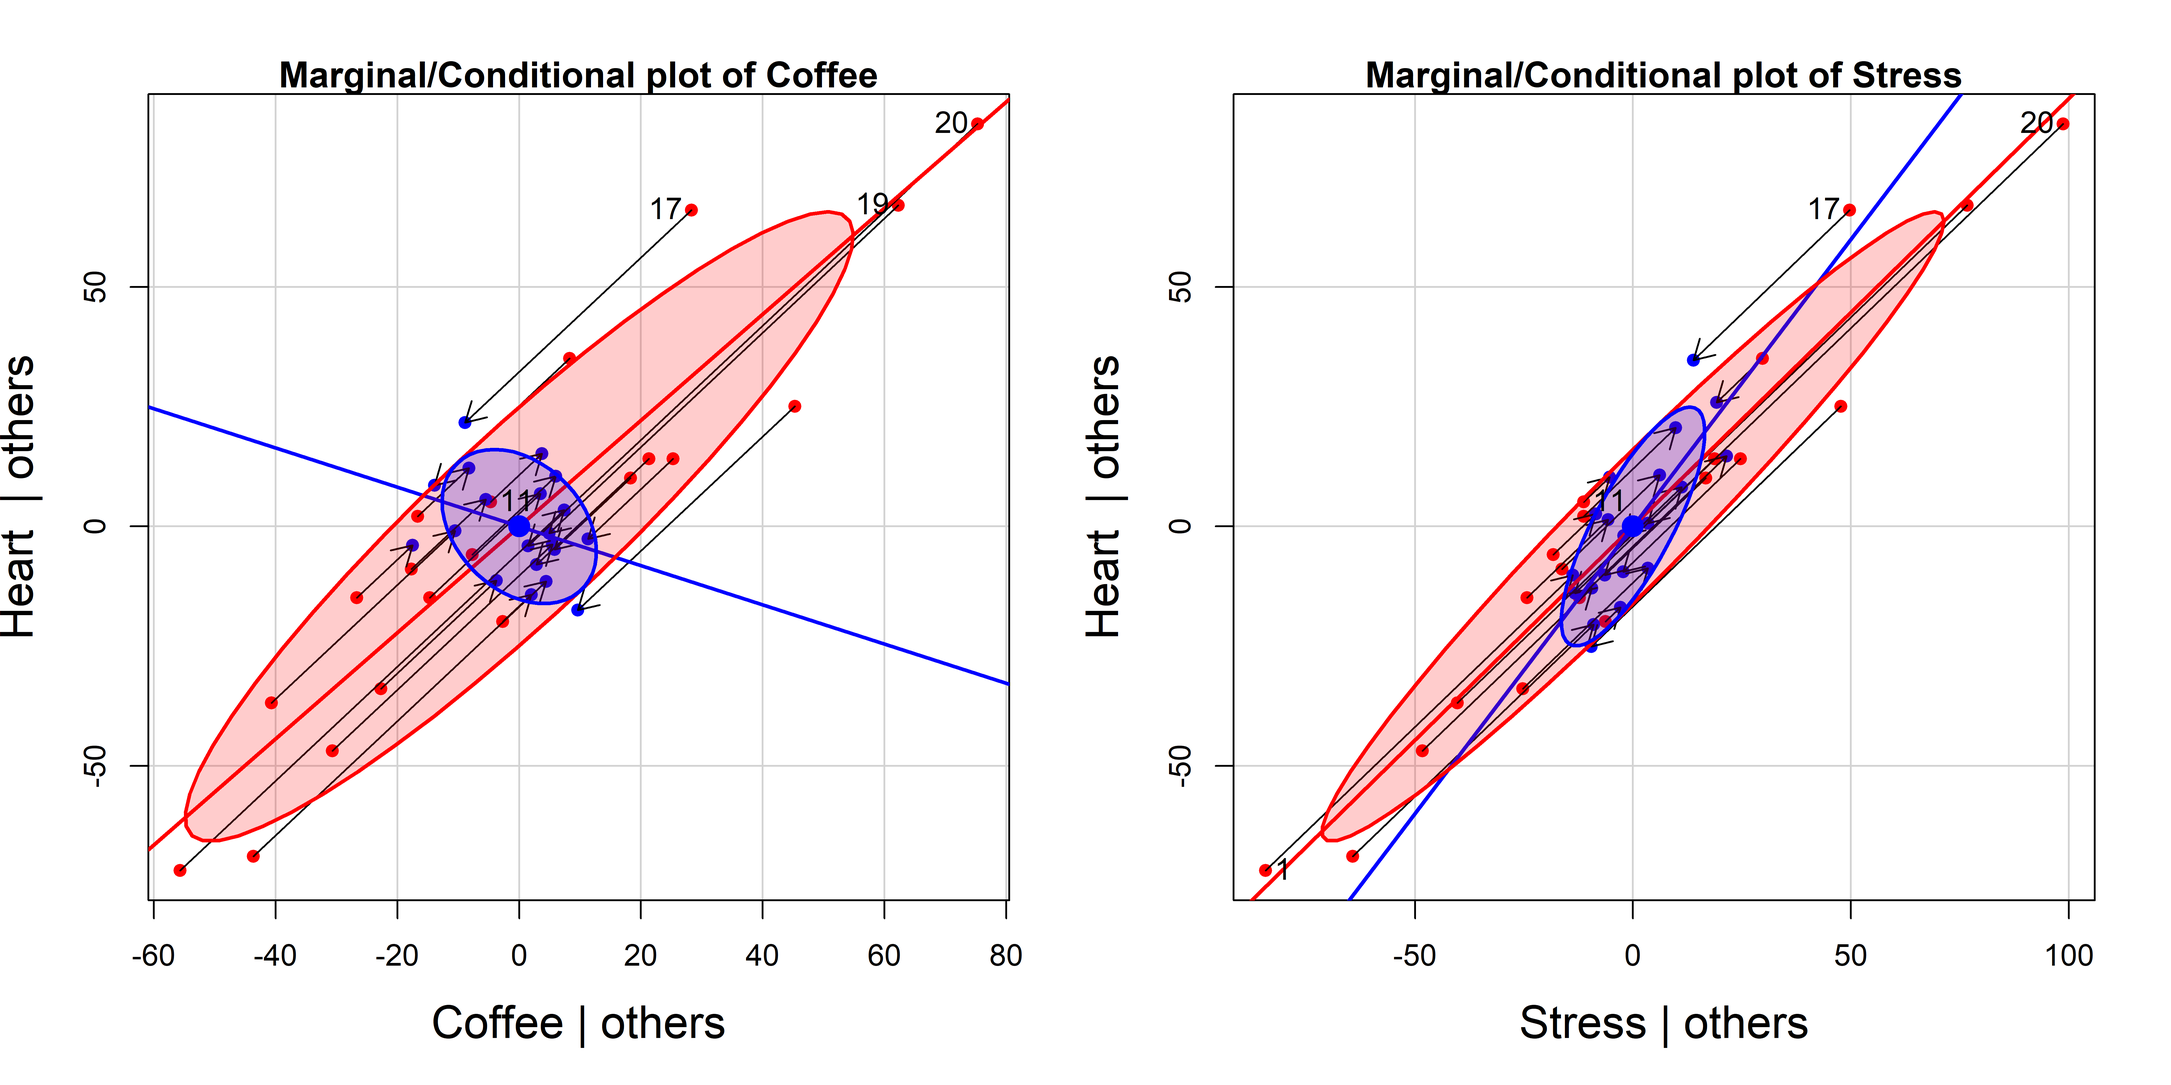
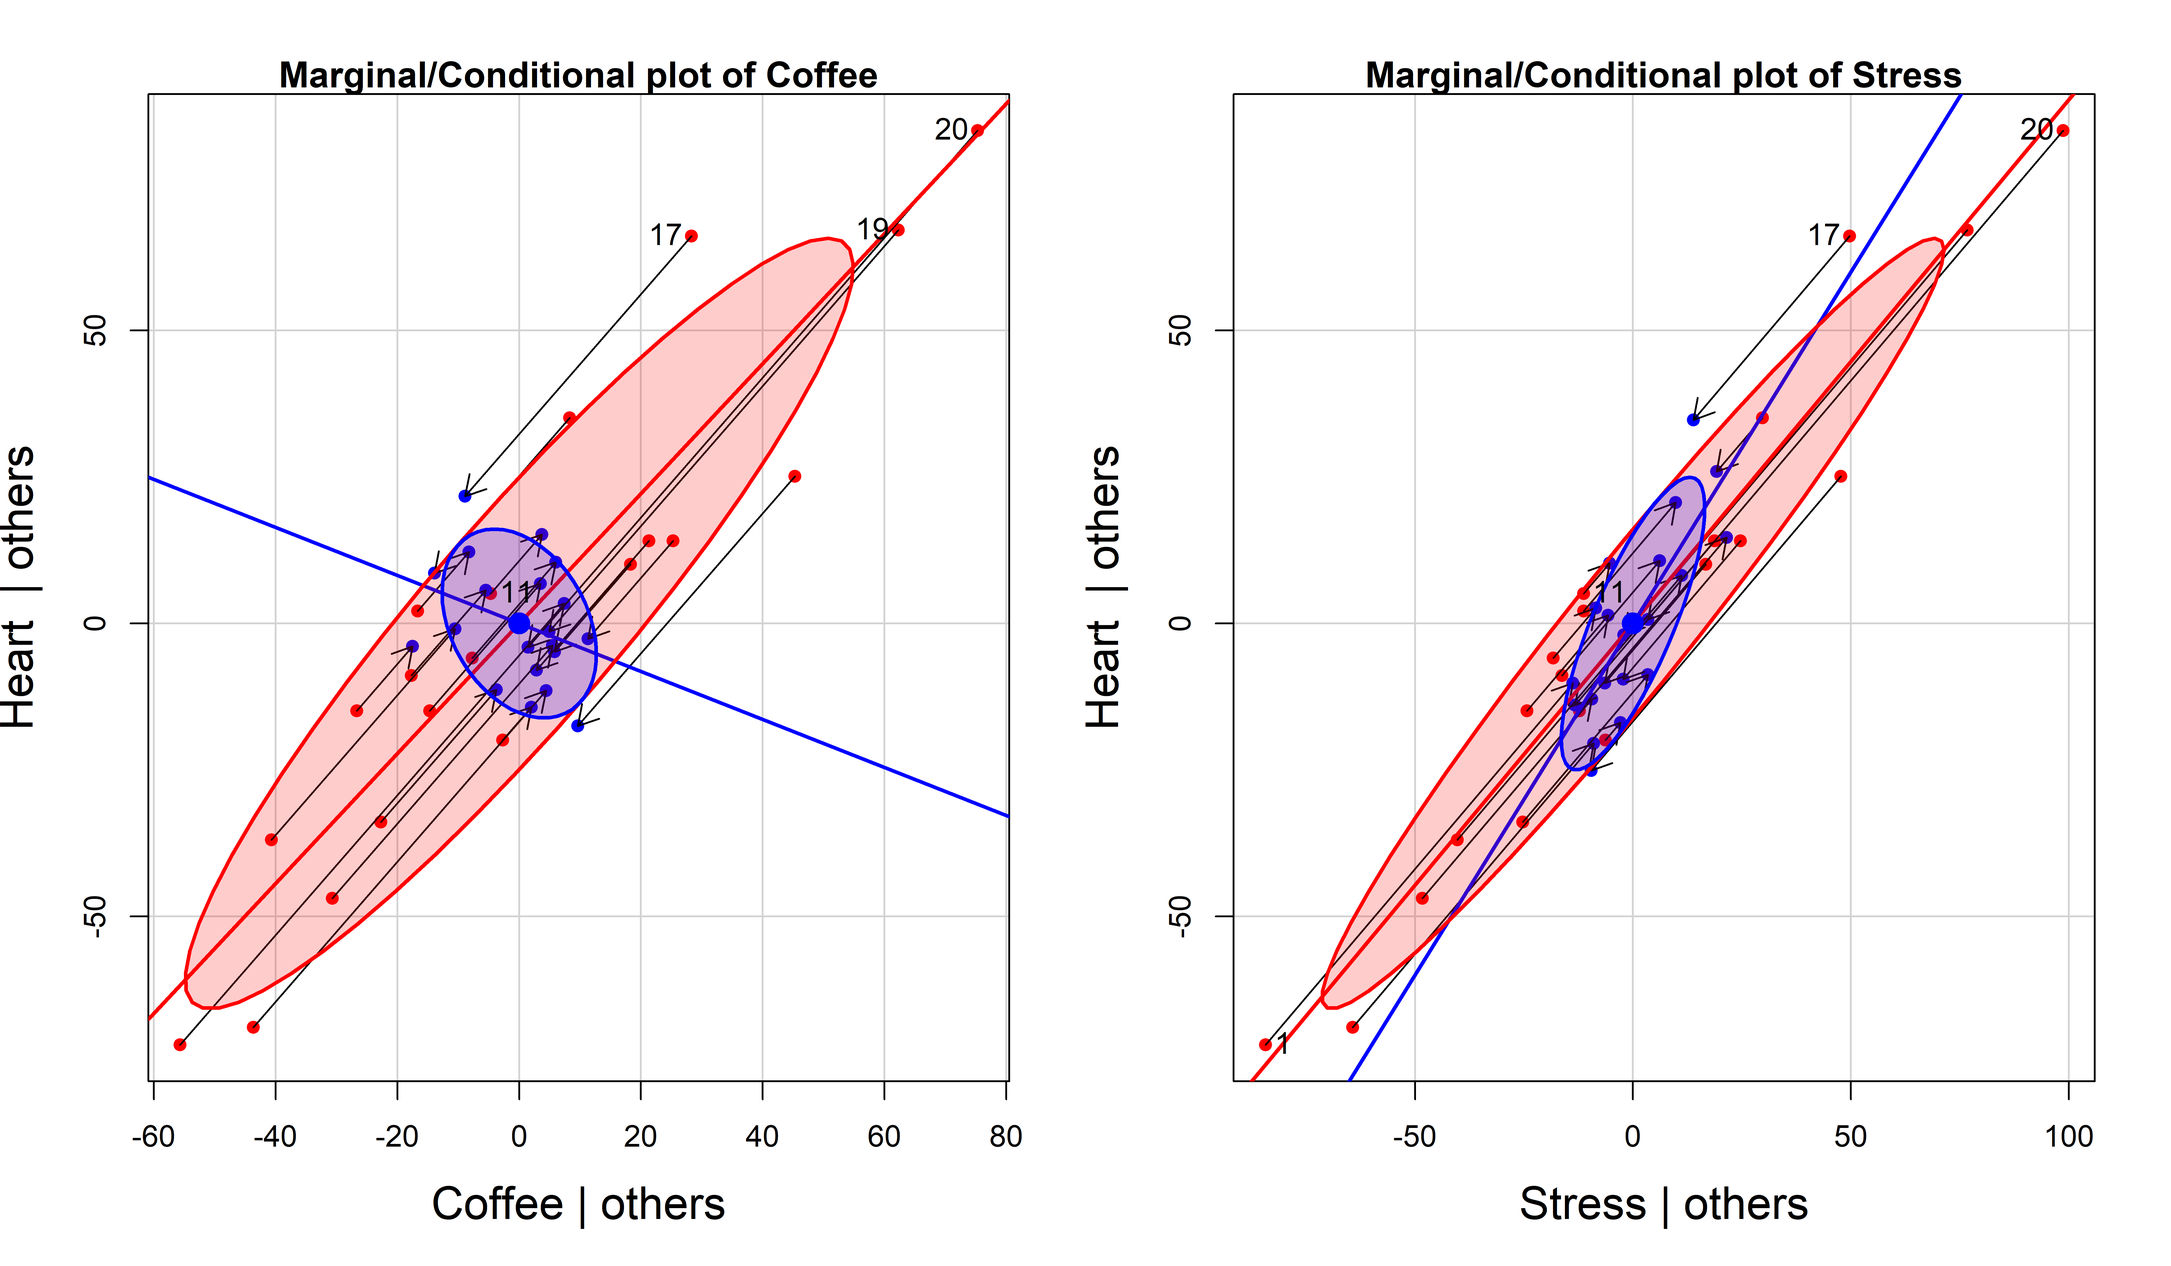
tweak ch06

diff --git a/docs/06-linear_models-plots.html b/docs/06-linear_models-plots.html
@@ -119,7 +119,7 @@ div.csl-indent {
       <button type="button" class="quarto-btn-toggle btn" data-bs-toggle="collapse" data-bs-target="#quarto-sidebar,#quarto-sidebar-glass" aria-controls="quarto-sidebar" aria-expanded="false" aria-label="Toggle sidebar navigation" onclick="if (window.quartoToggleHeadroom) { window.quartoToggleHeadroom(); }">
         <i class="bi bi-layout-text-sidebar-reverse"></i>
       </button>
-      <nav class="quarto-page-breadcrumbs" aria-label="breadcrumb"><ol class="breadcrumb"><li class="breadcrumb-item"><a href="./06-linear_models-plots.html"><span class="chapter-number">6</span>&nbsp; <span class="chapter-title">what are figure defaults?</span></a></li></ol></nav>
+      <nav class="quarto-page-breadcrumbs" aria-label="breadcrumb"><ol class="breadcrumb"><li class="breadcrumb-item"><a href="./06-linear_models-plots.html"><span class="chapter-number">6</span>&nbsp; <span class="chapter-title">Plots for univariate response models</span></a></li></ol></nav>
       <a class="flex-grow-1" role="button" data-bs-toggle="collapse" data-bs-target="#quarto-sidebar,#quarto-sidebar-glass" aria-controls="quarto-sidebar" aria-expanded="false" aria-label="Toggle sidebar navigation" onclick="if (window.quartoToggleHeadroom) { window.quartoToggleHeadroom(); }">      
       </a>
       <button type="button" class="btn quarto-search-button" aria-label="" onclick="window.quartoOpenSearch();">
@@ -197,7 +197,7 @@ div.csl-indent {
         <li class="sidebar-item">
   <div class="sidebar-item-container"> 
   <a href="./06-linear_models-plots.html" class="sidebar-item-text sidebar-link active">
- <span class="menu-text"><span class="chapter-number">6</span>&nbsp; <span class="chapter-title">what are figure defaults?</span></span></a>
+ <span class="menu-text"><span class="chapter-number">6</span>&nbsp; <span class="chapter-title">Plots for univariate response models</span></span></a>
   </div>
 </li>
         <li class="sidebar-item">
@@ -1281,7 +1281,7 @@ window.addEventListener('load', function () { styleCell_tinytable_99icm0xmzb5g0j
 <p>The most obvious feature of <a href="#fig-coffee-mcplot">Figure&nbsp;<span>6.10</span></a> is that Coffee has a negative slope in the conditional AV plot but a positive slope in the marginal plot. This is an example of Simpson’s paradox in a regression context: marginal and conditional relations can have opposite signs. </p>
 <p>Less obvious is the relation between the marginal and AVP ellipses. In 3D, the marginal data ellipse is the shadow of the ellipsoid for <span class="math inline">\((\mathbf{y}, \mathbf{x}_1, \mathbf{x}_2)\)</span> on one of the coordinate planes, while the AV plot is a slice through the ellipsoid where either <span class="math inline">\(\mathbf{x}_1\)</span> or <span class="math inline">\(\mathbf{x}_2\)</span> is held constant. Thus, the AVP ellipse must be contained in the marginal ellipse, as we can see in <a href="#fig-coffee-mcplot">Figure&nbsp;<span>6.10</span></a>. If there are only two <span class="math inline">\(x\)</span>s, then the AVP ellipse must touch the marginal ellipse at two points.</p>
 <p>Finally, <a href="#fig-coffee-mcplot">Figure&nbsp;<span>6.10</span></a> also shows how conditioning on other predictors works for individual observations, where each point of <span class="math inline">\((\mathbf{x}_i^\star, \mathbf{y}^\star)\)</span> is the image of <span class="math inline">\((\mathbf{x}_i, \mathbf{y})\)</span> along the path of the marginal regression. The variability in the response and in the focal predictor are both reduced, leaving only the uncontaminated relation of <span class="math inline">\(\mathbf{y}\)</span> with <span class="math inline">\(\mathbf{x}_i\)</span>.</p>
-<p>These plots are similar in spirit to the ARES plot (“Adding REgressors Smoothly”) proposed by <span class="citation" data-cites="CookWeisberg-1994">Cook &amp; Weisberg (<a href="90-references.html#ref-CookWeisberg-1994" role="doc-biblioref">1994</a>)</span>, but their idea was an interactive animation, displaying a smooth transition between the fit of a marginal model and the fit of a larger model. They used linear interpolation controlled by a slider, whose value, <span class="math inline">\(\lambda \in [0, 1]\)</span>, was the weight given to the smaller marginal model.</p>
+<p>These plots are similar in spirit to the ARES plot (“Adding REgressors Smoothly”) proposed by <span class="citation" data-cites="CookWeisberg-1994">Cook &amp; Weisberg (<a href="90-references.html#ref-CookWeisberg-1994" role="doc-biblioref">1994</a>)</span>, but their idea was an interactive animation, displaying a smooth transition between the fit of a marginal model and the fit of a larger model. They used linear interpolation, <span class="math inline">\((\mathbf{x}_i, \mathbf{y})_{\text{interp}} = (\mathbf{x}_i, \mathbf{y}) + \lambda [(\mathbf{x}_i^\star, \mathbf{y}^\star) - (\mathbf{x}_i, \mathbf{y})]\)</span>, controlled by a slider, whose value, <span class="math inline">\(\lambda \in [0, 1]\)</span>, was the weight given to the smaller marginal model. See <a href="https://www.datavis.ca/gallery/animation/duncanAV/">Animated interpolation between a marginal scatterplot and an added-variable plot</a> for an example using the Duncan data.</p>
 </section><section id="prestige-data" class="level3" data-number="6.5.3"><h3 data-number="6.5.3" class="anchored" data-anchor-id="prestige-data">
 <span class="header-section-number">6.5.3</span> Prestige data</h3>
 <p>For a substantive example, let’s return to the model for income, education and women in the <code>Prestige</code> data. The plot in <a href="#fig-prestige-avplot">Figure&nbsp;<span>6.11</span></a> shows the strong positive relations of income and education to prestige in the full model, and the negligible relation of percent women. But, in the plot for income, two occupations (physicians and general managers) with high income strongly pull the regression line down from what can be seen in the orientation of the conditional data ellipse.</p>
@@ -1323,7 +1323,7 @@ window.addEventListener('load', function () { styleCell_tinytable_99icm0xmzb5g0j
 <span class="header-section-number">6.5.4</span> Component + Residual plots</h3>
 <p>A plot more suited to detecting the need to transform a predictor <span class="math inline">\(\mathbf{x}_i\)</span> to a form <span class="math inline">\(f(\mathbf{x}_i)\)</span> to make it’s relationship with the response <span class="math inline">\(\mathbf{y}\)</span> more nearly linear is the <em>component + residual plot</em> (“C+R plot”, also called <em>partial residual plot</em>, <span class="citation" data-cites="LarsenMcCleary:72">Larsen &amp; McCleary (<a href="90-references.html#ref-LarsenMcCleary:72" role="doc-biblioref">1972</a>)</span>; <span class="citation" data-cites="Cook:93">Cook (<a href="90-references.html#ref-Cook:93" role="doc-biblioref">1993</a>)</span>). This plot displays the partial residual <span class="math inline">\(\mathbf{e} + \hat{b}_i \mathbf{x}_i\)</span> on the vertical axis against <span class="math inline">\(\mathbf{x}_i\)</span> on the horizontal, where <span class="math inline">\(\mathbf{e}\)</span> are the residuals from the full model. A smoothed curve through the points will often suggest the form of the transformation <span class="math inline">\(f()\)</span>. The fact that the horizontal axis is <span class="math inline">\(\mathbf{x}_i\)</span> itself rather than <span class="math inline">\(\mathbf{x}^\star_i\)</span> makes it easier to see the functional form.</p>
 <p>The C+R plot has the same desirable properties as the AV plot: The slope <span class="math inline">\(\hat{b}_i\)</span> and residuals <span class="math inline">\(\mathbf{e}\)</span> in this plot are the same as those in the full model.</p>
-<p>C+R plots are produced by <code><a href="https://rdrr.io/pkg/car/man/crPlots.html">car::crPlots()</a></code> and <code><a href="https://rdrr.io/pkg/car/man/crPlots.html">car::crPlot()</a></code>. <a href="#fig-prestige-crplot">Figure&nbsp;<span>6.13</span></a> shows this just for income in the model <code>mod1</code>. (These plots for education and women show no strong evidence of curvilinearity.) The dashed blue line is the linear <em>partial fit</em>, <span class="math inline">\(\hat{b}_i \mathbf{x}_i\)</span>, whose slope <span class="math inline">\(\hat{b}_2 = 0.0013\)</span> is the same as that for income in <code>mod1</code>. The solid <span style="color: red;">red</span> curve is the loess smooth through the points. The same points are identified as noteworthy as in AV plot in <a href="#fig-prestige-av-income">Figure&nbsp;<span>6.12</span></a>.</p>
+<p>C+R plots are produced by <code><a href="https://rdrr.io/pkg/car/man/crPlots.html">car::crPlots()</a></code> and <code><a href="https://rdrr.io/pkg/car/man/crPlots.html">car::crPlot()</a></code>. <a href="#fig-prestige-crplot">Figure&nbsp;<span>6.13</span></a> shows this just for income in the model <code>mod1</code>. (These plots for education and women show no strong evidence of curvilinearity.) The dashed <span style="color: blue;">blue</span> line is the linear <em>partial fit</em>, <span class="math inline">\(\hat{b}_i \mathbf{x}_i\)</span>, whose slope <span class="math inline">\(\hat{b}_2 = 0.0013\)</span> is the same as that for income in <code>mod1</code>. The solid <span style="color: red;">red</span> curve is the loess smooth through the points. The same points are identified as noteworthy as in AV plot in <a href="#fig-prestige-av-income">Figure&nbsp;<span>6.12</span></a>.</p>
 <div class="cell" data-layout-align="center">
 <div class="sourceCode" id="cb30" data-source-line-numbers="nil" data-code-line-numbers="nil"><pre class="downlit sourceCode r code-with-copy"><code class="sourceCode R"><span><span class="fu"><a href="https://rdrr.io/pkg/car/man/crPlots.html">crPlot</a></span><span class="op">(</span><span class="va">mod1</span>, <span class="st">"income"</span>,</span>
 <span>       smooth <span class="op">=</span> <span class="cn">TRUE</span>,</span>

diff --git a/docs/07-lin-mod-topics.html b/docs/07-lin-mod-topics.html
@@ -199,7 +199,7 @@ div.csl-indent {
         <li class="sidebar-item">
   <div class="sidebar-item-container"> 
   <a href="./06-linear_models-plots.html" class="sidebar-item-text sidebar-link">
- <span class="menu-text"><span class="chapter-number">6</span>&nbsp; <span class="chapter-title">what are figure defaults?</span></span></a>
+ <span class="menu-text"><span class="chapter-number">6</span>&nbsp; <span class="chapter-title">Plots for univariate response models</span></span></a>
   </div>
 </li>
         <li class="sidebar-item">
@@ -827,7 +827,7 @@ window.document.addEventListener("DOMContentLoaded", function (event) {
 });
 </script><nav class="page-navigation"><div class="nav-page nav-page-previous">
       <a href="./06-linear_models-plots.html" class="pagination-link">
-        <i class="bi bi-arrow-left-short"></i> <span class="nav-page-text"><span class="chapter-number">6</span>&nbsp; <span class="chapter-title">what are figure defaults?</span></span>
+        <i class="bi bi-arrow-left-short"></i> <span class="nav-page-text"><span class="chapter-number">6</span>&nbsp; <span class="chapter-title">Plots for univariate response models</span></span>
       </a>          
   </div>
   <div class="nav-page nav-page-next">

diff --git a/docs/index.html b/docs/index.html
@@ -5,7 +5,7 @@
 <meta name="generator" content="quarto-1.3.450">
 <meta name="viewport" content="width=device-width, initial-scale=1.0, user-scalable=yes">
 <meta name="author" content="Michael Friendly">
-<meta name="dcterms.date" content="2024-07-08">
+<meta name="dcterms.date" content="2024-07-09">
 <title>Visualizing Multivariate Data and Models in R</title>
 <style>
 code{white-space: pre-wrap;}
@@ -146,7 +146,7 @@ div.csl-indent {
       <div>
       <div class="quarto-title-meta-heading">Published</div>
       <div class="quarto-title-meta-contents">
-        <p class="date">July 8, 2024</p>
+        <p class="date">July 9, 2024</p>
       </div>
     </div>
     
@@ -210,7 +210,7 @@ div.csl-indent {
         <li class="sidebar-item">
   <div class="sidebar-item-container"> 
   <a href="./06-linear_models-plots.html" class="sidebar-item-text sidebar-link">
- <span class="menu-text"><span class="chapter-number">6</span>&nbsp; <span class="chapter-title">what are figure defaults?</span></span></a>
+ <span class="menu-text"><span class="chapter-number">6</span>&nbsp; <span class="chapter-title">Plots for univariate response models</span></span></a>
   </div>
 </li>
         <li class="sidebar-item">

diff --git a/docs/05-linear_models.html b/docs/05-linear_models.html
@@ -197,7 +197,7 @@ div.csl-indent {
         <li class="sidebar-item">
   <div class="sidebar-item-container"> 
   <a href="./06-linear_models-plots.html" class="sidebar-item-text sidebar-link">
- <span class="menu-text"><span class="chapter-number">6</span>&nbsp; <span class="chapter-title">what are figure defaults?</span></span></a>
+ <span class="menu-text"><span class="chapter-number">6</span>&nbsp; <span class="chapter-title">Plots for univariate response models</span></span></a>
   </div>
 </li>
         <li class="sidebar-item">
@@ -793,7 +793,7 @@ window.document.addEventListener("DOMContentLoaded", function (event) {
   </div>
   <div class="nav-page nav-page-next">
       <a href="./06-linear_models-plots.html" class="pagination-link">
-        <span class="nav-page-text"><span class="chapter-number">6</span>&nbsp; <span class="chapter-title">what are figure defaults?</span></span> <i class="bi bi-arrow-right-short"></i>
+        <span class="nav-page-text"><span class="chapter-number">6</span>&nbsp; <span class="chapter-title">Plots for univariate response models</span></span> <i class="bi bi-arrow-right-short"></i>
       </a>
   </div>
 </nav>

diff --git a/docs/mlm-viz.html b/docs/mlm-viz.html
@@ -178,7 +178,7 @@ pre > code.sourceCode > span > a:first-child::before { text-decoration: underlin
         <li class="sidebar-item">
   <div class="sidebar-item-container"> 
   <a href="./06-linear_models-plots.html" class="sidebar-item-text sidebar-link">
- <span class="menu-text"><span class="chapter-number">6</span>&nbsp; <span class="chapter-title">what are figure defaults?</span></span></a>
+ <span class="menu-text"><span class="chapter-number">6</span>&nbsp; <span class="chapter-title">Plots for univariate response models</span></span></a>
   </div>
 </li>
         <li class="sidebar-item">

diff --git a/docs/91-colophon.html b/docs/91-colophon.html
@@ -143,7 +143,7 @@ ul.task-list li input[type="checkbox"] {
         <li class="sidebar-item">
   <div class="sidebar-item-container"> 
   <a href="./06-linear_models-plots.html" class="sidebar-item-text sidebar-link">
- <span class="menu-text"><span class="chapter-number">6</span>&nbsp; <span class="chapter-title">what are figure defaults?</span></span></a>
+ <span class="menu-text"><span class="chapter-number">6</span>&nbsp; <span class="chapter-title">Plots for univariate response models</span></span></a>
   </div>
 </li>
         <li class="sidebar-item">

diff --git a/docs/mlm-review.html b/docs/mlm-review.html
@@ -144,7 +144,7 @@ ul.task-list li input[type="checkbox"] {
         <li class="sidebar-item">
   <div class="sidebar-item-container"> 
   <a href="./06-linear_models-plots.html" class="sidebar-item-text sidebar-link">
- <span class="menu-text"><span class="chapter-number">6</span>&nbsp; <span class="chapter-title">what are figure defaults?</span></span></a>
+ <span class="menu-text"><span class="chapter-number">6</span>&nbsp; <span class="chapter-title">Plots for univariate response models</span></span></a>
   </div>
 </li>
         <li class="sidebar-item">

diff --git a/docs/01-intro.html b/docs/01-intro.html
@@ -163,7 +163,7 @@ div.csl-indent {
         <li class="sidebar-item">
   <div class="sidebar-item-container"> 
   <a href="./06-linear_models-plots.html" class="sidebar-item-text sidebar-link">
- <span class="menu-text"><span class="chapter-number">6</span>&nbsp; <span class="chapter-title">what are figure defaults?</span></span></a>
+ <span class="menu-text"><span class="chapter-number">6</span>&nbsp; <span class="chapter-title">Plots for univariate response models</span></span></a>
   </div>
 </li>
         <li class="sidebar-item">

diff --git a/docs/02-getting_started.html b/docs/02-getting_started.html
@@ -197,7 +197,7 @@ div.csl-indent {
         <li class="sidebar-item">
   <div class="sidebar-item-container"> 
   <a href="./06-linear_models-plots.html" class="sidebar-item-text sidebar-link">
- <span class="menu-text"><span class="chapter-number">6</span>&nbsp; <span class="chapter-title">what are figure defaults?</span></span></a>
+ <span class="menu-text"><span class="chapter-number">6</span>&nbsp; <span class="chapter-title">Plots for univariate response models</span></span></a>
   </div>
 </li>
         <li class="sidebar-item">

diff --git a/docs/03-multivariate_plots.html b/docs/03-multivariate_plots.html
@@ -197,7 +197,7 @@ div.csl-indent {
         <li class="sidebar-item">
   <div class="sidebar-item-container"> 
   <a href="./06-linear_models-plots.html" class="sidebar-item-text sidebar-link">
- <span class="menu-text"><span class="chapter-number">6</span>&nbsp; <span class="chapter-title">what are figure defaults?</span></span></a>
+ <span class="menu-text"><span class="chapter-number">6</span>&nbsp; <span class="chapter-title">Plots for univariate response models</span></span></a>
   </div>
 </li>
         <li class="sidebar-item">

diff --git a/docs/04-pca-biplot.html b/docs/04-pca-biplot.html
@@ -197,7 +197,7 @@ div.csl-indent {
         <li class="sidebar-item">
   <div class="sidebar-item-container"> 
   <a href="./06-linear_models-plots.html" class="sidebar-item-text sidebar-link">
- <span class="menu-text"><span class="chapter-number">6</span>&nbsp; <span class="chapter-title">what are figure defaults?</span></span></a>
+ <span class="menu-text"><span class="chapter-number">6</span>&nbsp; <span class="chapter-title">Plots for univariate response models</span></span></a>
   </div>
 </li>
         <li class="sidebar-item">

diff --git a/docs/08-collinearity-ridge.html b/docs/08-collinearity-ridge.html
@@ -197,7 +197,7 @@ div.csl-indent {
         <li class="sidebar-item">
   <div class="sidebar-item-container"> 
   <a href="./06-linear_models-plots.html" class="sidebar-item-text sidebar-link">
- <span class="menu-text"><span class="chapter-number">6</span>&nbsp; <span class="chapter-title">what are figure defaults?</span></span></a>
+ <span class="menu-text"><span class="chapter-number">6</span>&nbsp; <span class="chapter-title">Plots for univariate response models</span></span></a>
   </div>
 </li>
         <li class="sidebar-item">
